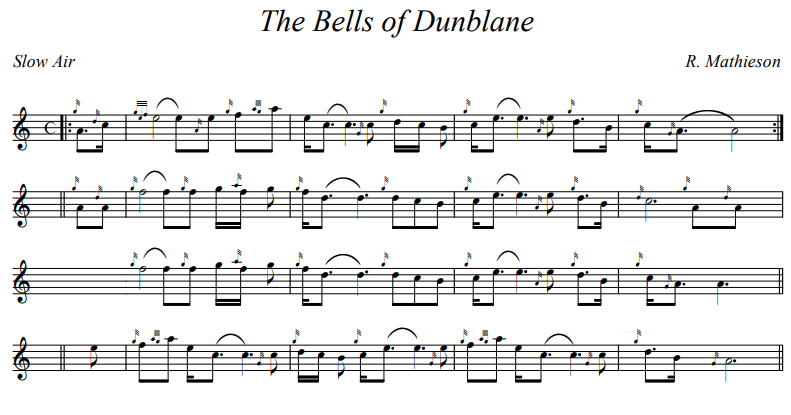
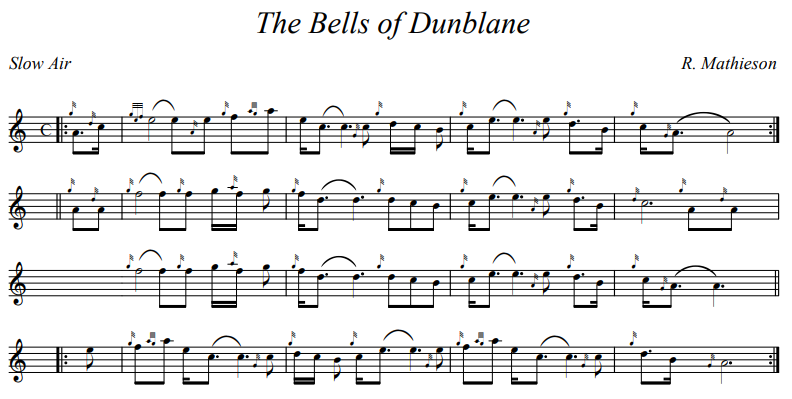
Add files via upload

diff --git a/BellsDunblane.html b/BellsDunblane.html
@@ -22,10 +22,10 @@ w\:* {behavior:url(#default#VML);}
  <o:DocumentProperties>
   <o:Author>Graeme Bolton</o:Author>
   <o:LastAuthor>Graeme Bolton</o:LastAuthor>
-  <o:Revision>3</o:Revision>
+  <o:Revision>4</o:Revision>
   <o:TotalTime>253</o:TotalTime>
   <o:Created>2024-06-12T05:35:00Z</o:Created>
-  <o:LastSaved>2024-06-17T04:05:00Z</o:LastSaved>
+  <o:LastSaved>2024-06-17T04:28:00Z</o:LastSaved>
   <o:Pages>1</o:Pages>
   <o:Words>68</o:Words>
   <o:Characters>393</o:Characters>
@@ -1102,7 +1102,7 @@ word-wrap:break-word'>
 </table>
 
 <p class=MsoNormal style='margin-bottom:0cm;line-height:normal'><!--[if gte vml 1]><v:rect
- id="Rectangle_x0020_1396795248" o:spid="_x0000_s1027" style='position:absolute;
+ id="Rectangle_x0020_1952074763" o:spid="_x0000_s1027" style='position:absolute;
  margin-left:-38.8pt;margin-top:-48.5pt;width:1204.3pt;height:785.3pt;
  z-index:-251658752;visibility:visible;mso-wrap-style:square;
  mso-width-percent:0;mso-height-percent:0;mso-wrap-distance-left:15.72pt;
@@ -1204,18 +1204,18 @@ text-underline:none'>The Bells of Dunblane<o:p></o:p></span></b></span></p>
  <v:path o:extrusionok="f" gradientshapeok="t" o:connecttype="rect"/>
  <o:lock v:ext="edit" aspectratio="t"/>
 </v:shapetype><v:shape id="Picture_x0020_1" o:spid="_x0000_s1026" type="#_x0000_t75"
- style='position:absolute;margin-left:4.5pt;margin-top:93.65pt;width:572.3pt;
- height:581.3pt;z-index:-251654656;visibility:visible;mso-wrap-style:square;
+ style='position:absolute;margin-left:3.75pt;margin-top:95.15pt;width:594.05pt;
+ height:299.25pt;z-index:251662848;visibility:visible;mso-wrap-style:square;
  mso-width-percent:0;mso-height-percent:0;mso-wrap-distance-left:9pt;
  mso-wrap-distance-top:0;mso-wrap-distance-right:9pt;
  mso-wrap-distance-bottom:0;mso-position-horizontal:absolute;
  mso-position-horizontal-relative:text;mso-position-vertical:absolute;
  mso-position-vertical-relative:text;mso-width-percent:0;mso-height-percent:0;
  mso-width-relative:page;mso-height-relative:page'>
- <v:imagedata src="BellsDunblane_files/image003.png" o:title=""/>
+ <v:imagedata src="BellsDunblane_files/image002.png" o:title=""/>
 </v:shape><![endif]--><![if !vml]><span style='mso-ignore:vglayout;position:
-absolute;z-index:-1895821824;margin-left:6px;margin-top:125px;width:763px;
-height:775px'><img width=763 height=775 src="BellsDunblane_files/image003.png"
+absolute;z-index:251662848;margin-left:5px;margin-top:126px;width:792px;
+height:399px'><img width=792 height=399 src="BellsDunblane_files/image002.png"
 v:shapes="Picture_x0020_1"></span><![endif]><span class=MsoHyperlink><b
 style='mso-bidi-font-weight:normal'><span style='font-size:16.0pt;line-height:
 105%;font-family:"Bell MT",serif;color:red;mso-style-textoutline-type:none;
